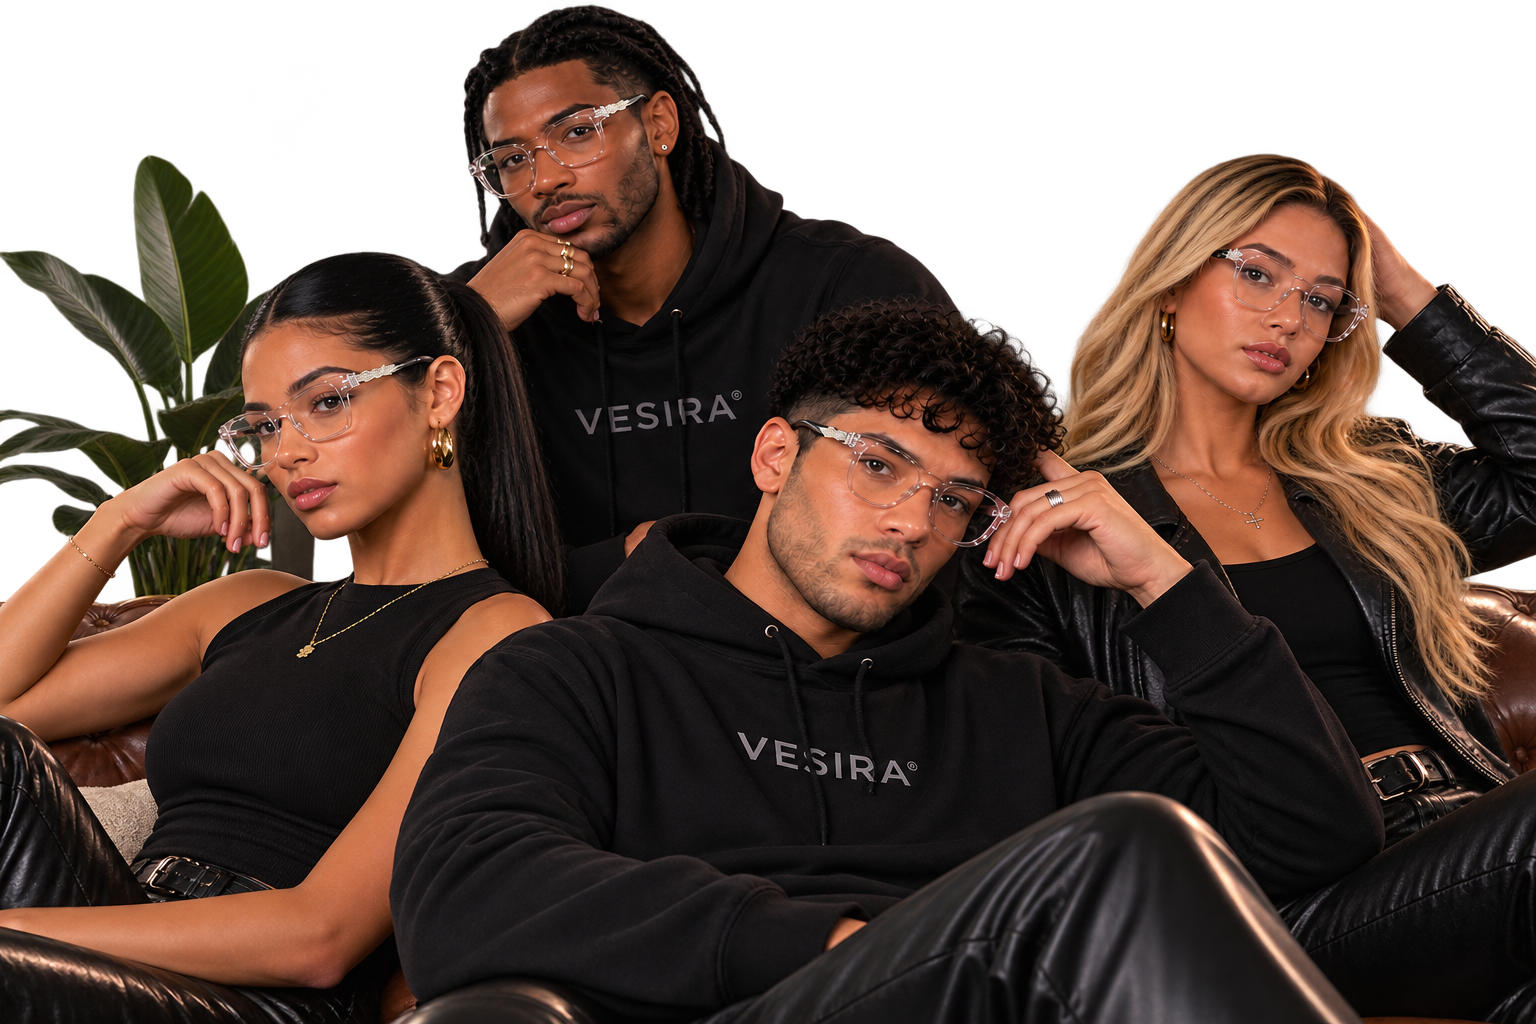
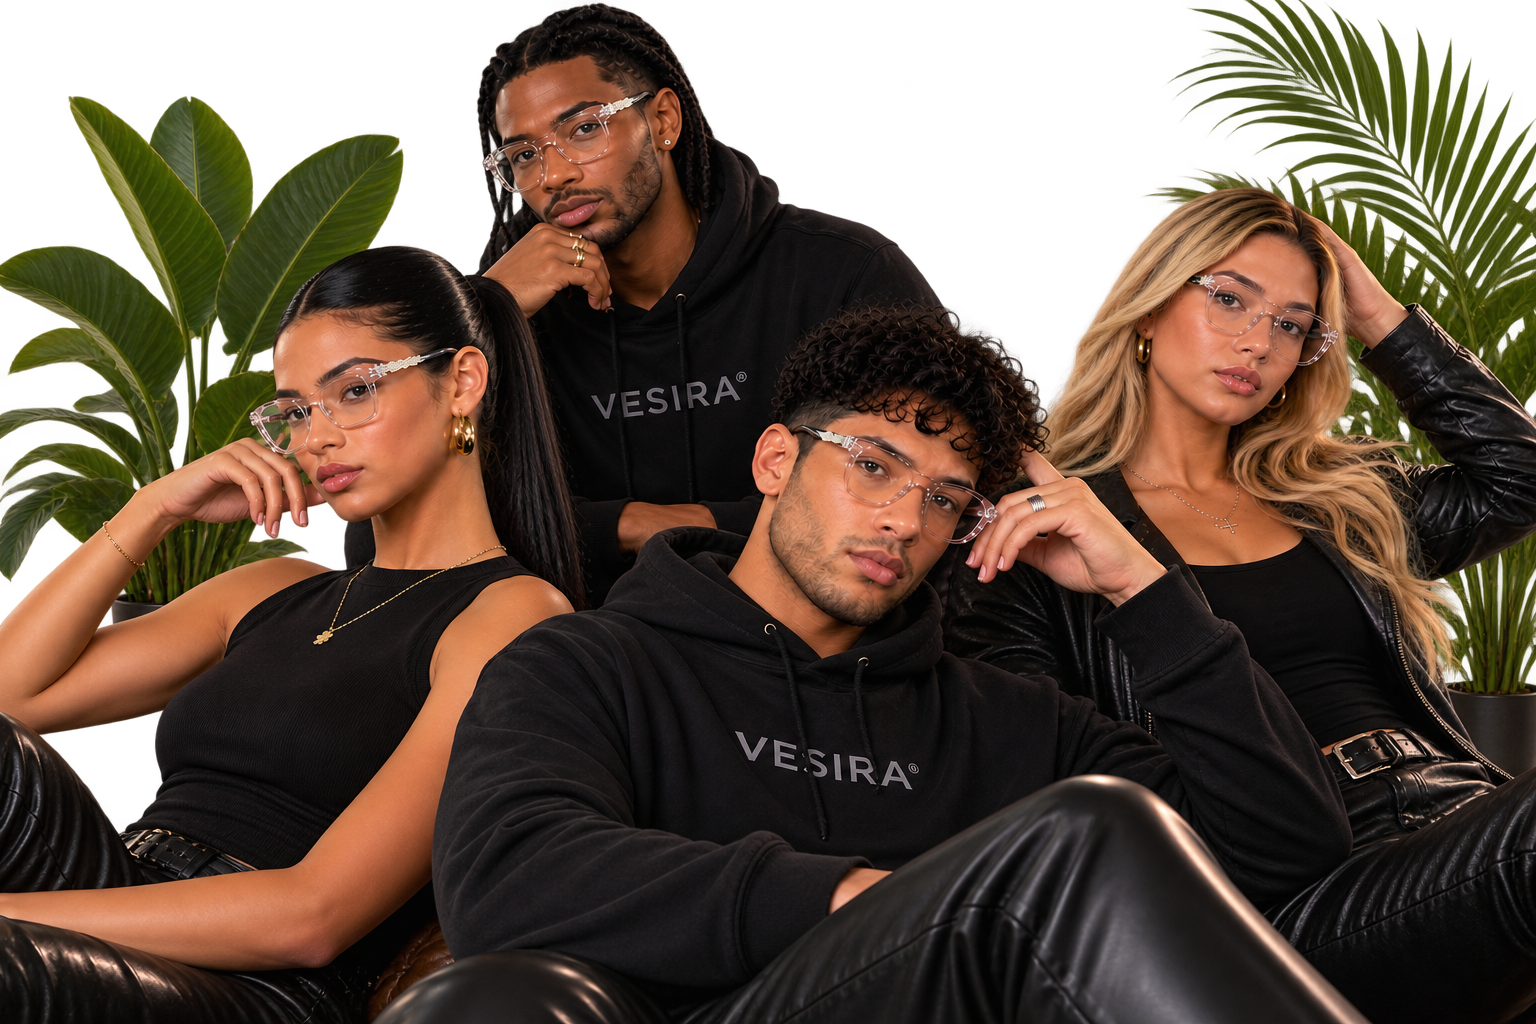
vd

diff --git a/index.html b/index.html
@@ -962,14 +962,12 @@ body.modo-oscuro .producto-card:hover {
 
 
         const temaGuardado =
-            localStorage.getItem(
-                "vesiraTema"
-            );
+    localStorage.getItem("vesiraTema");
 
-
-        aplicarTema(
-            temaGuardado === "oscuro"
-        );
+aplicarTema(
+    temaGuardado === null ||
+    temaGuardado === "oscuro"
+);
 
 
         cambiarTema.addEventListener(
